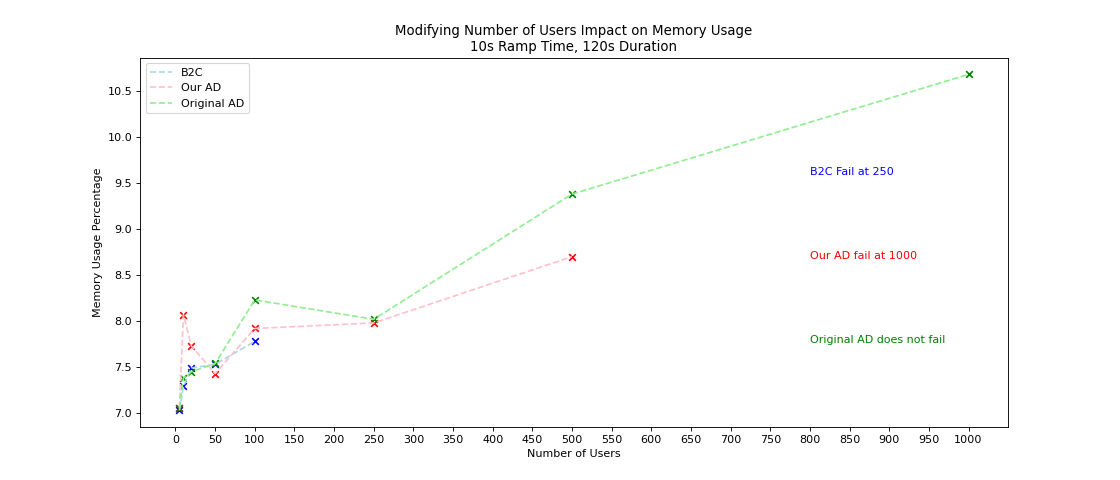
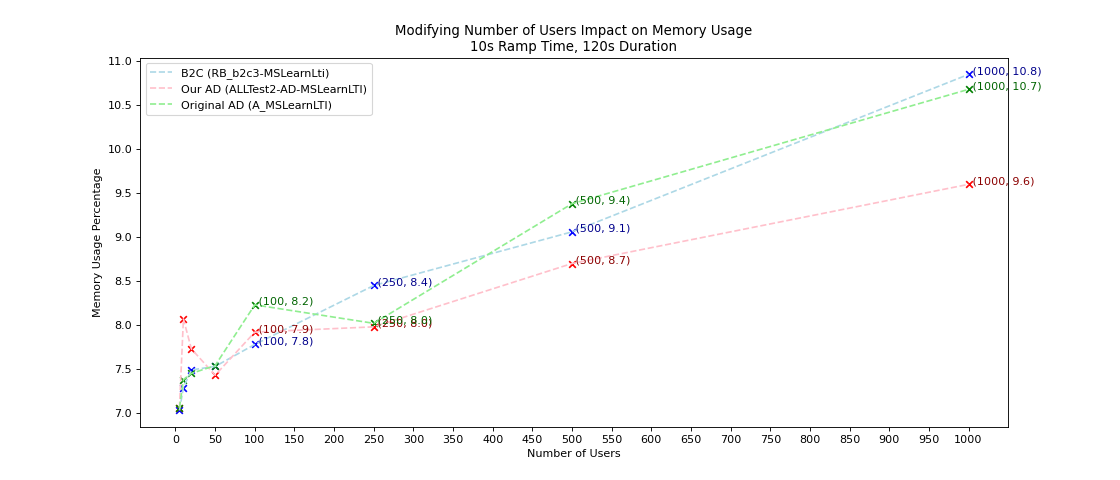
Updated diagrams with all success

diff --git a/__LoadDiagrams/diagrams.py b/__LoadDiagrams/diagrams.py
@@ -8,22 +8,25 @@ def drawDiagram(xAxis1, yAxis1, xAxis2, yAxis2, xAxis3, yAxis3, xLabel, yLabel, 
 
     plt.plot(xAxis1, yAxis1, linestyle='--', c='lightblue', label=yLegend1)
     plt.scatter(xAxis1, yAxis1, c='blue', marker="x")
-    plt.text(800, min(yAxis1+yAxis2+yAxis3)+(max(yAxis1+yAxis2+yAxis3)-min(yAxis1+yAxis2+yAxis3))*0.7, "B2C Fail at 250", color="blue")
+    # plt.text(800, min(yAxis1+yAxis2+yAxis3)+(max(yAxis1+yAxis2+yAxis3)-min(yAxis1+yAxis2+yAxis3))*0.7, "Our B2C did not fail", color="blue")
 
     plt.plot(xAxis2, yAxis2, linestyle='--', c='pink', label=yLegend2)
     plt.scatter(xAxis2, yAxis2, c='red', marker="x")
-    plt.text(800, min(yAxis1+yAxis2+yAxis3)+(max(yAxis1+yAxis2+yAxis3)-min(yAxis1+yAxis2+yAxis3))*0.45, "Our AD fail at 1000", color="red")
+    # plt.text(800, min(yAxis1+yAxis2+yAxis3)+(max(yAxis1+yAxis2+yAxis3)-min(yAxis1+yAxis2+yAxis3))*0.45, "Our AD does not fail", color="red")
 
     plt.plot(xAxis3, yAxis3, linestyle='--', c='lightgreen', label=yLegend3)
     plt.scatter(xAxis3, yAxis3, c='green', marker="x")
-    plt.text(800, min(yAxis1+yAxis2+yAxis3)+(max(yAxis1+yAxis2+yAxis3)-min(yAxis1+yAxis2+yAxis3))*0.2, "Original AD does not fail", color="green")
+    # plt.text(800, min(yAxis1+yAxis2+yAxis3)+(max(yAxis1+yAxis2+yAxis3)-min(yAxis1+yAxis2+yAxis3))*0.2, "Original AD does not fail", color="green")
     
-    # for xy in zip(xAxis1, yAxis1):
-    #     plt.annotate(' (%d, %.1f)' % xy, xy=xy)
-    # for xy in zip(xAxis2, yAxis2):
-    #     plt.annotate(' (%d, %.1f)' % xy, xy=xy)
-    # for xy in zip(xAxis3, yAxis3):
-    #     plt.annotate(' (%d, %.1f)' % xy, xy=xy)
+    for xy in zip(xAxis1, yAxis1):
+        if(xy[0]>=100):
+            plt.annotate(' (%d, %.1f)' % xy, xy=xy, color='darkblue')
+    for xy in zip(xAxis2, yAxis2):
+        if(xy[0]>=100):
+            plt.annotate(' (%d, %.1f)' % xy, xy=xy, color='darkred')
+    for xy in zip(xAxis3, yAxis3):
+        if(xy[0]>=100):
+            plt.annotate(' (%d, %.1f)' % xy, xy=xy, color='darkgreen')
 
 
 
@@ -58,11 +61,11 @@ yLabel = "HTTP request Response Time (90 perc) in seconds"
 
 
 # b2c = RB_b2c3-MSLearnLti
-xAxis1 = [5,10,20,50,100] # number of users
-yAxis1 = [0.87075, 2.86, 4.76, 6.22, 4.55] # HTTP Request Percentile 90th
+xAxis1 = [5,10,20,50,100,250, 500,1000] # number of users
+yAxis1 = [0.87075, 2.86, 4.76, 6.22, 4.55,10.69, 7.95,13.66] # HTTP Request Percentile 90th
 # our AD = ALLTest2-AD-MSLearnLTI
-xAxis2 = [5,10,20,50,100,250,500] # number of users
-yAxis2 = [0.582, 0.70933, 3.59, 3.67, 8.8,10.74, 11.35]
+xAxis2 = [5,10,20,50,100,250,500,1000] # number of users
+yAxis2 = [0.582, 0.70933, 3.59, 3.67, 8.8,10.74, 11.35, 18.78]
 # original AD = A_MSLearnLTI (?????)
 xAxis3 = [5, 10, 20, 50, 100, 250, 500,1000] # number of users
 yAxis3 = [0.6475, 0.80075, 1.03, 2.84, 4.95, 5.63, 7.39, 12.85]
@@ -78,14 +81,15 @@ yLabel = "Memory Usage Percentage"
 
 
 # b2c = RB_b2c3-MSLearnLti
-yAxis1 = [7.03, 7.29, 7.49, 7.53, 7.78] # HTTP Request Percentile 90th
+yAxis1 = [7.03, 7.29, 7.49, 7.53, 7.78, 8.45, 9.06,10.85] # HTTP Request Percentile 90th
 # our AD = ALLTest2-AD-MSLearnLTI
-yAxis2 = [7.06, 8.07, 7.73, 7.43, 7.92,7.98,8.7]
+yAxis2 = [7.06, 8.07, 7.73, 7.43, 7.92,7.98,8.7, 9.6]
 # original AD = A_MSLearnLTI (?????)
 yAxis3 = [7.06, 7.38, 7.45, 7.54, 8.23, 8.02, 9.38, 10.68]
 
 
-drawDiagram(xAxis1, yAxis1, xAxis2, yAxis2, xAxis3, yAxis3, xLabel, yLabel, Title, "UserImpactOnMemory", "B2C", "Our AD", "Original AD")
+# uncommented for now as we don't care about memory consumption
+# drawDiagram(xAxis1, yAxis1, xAxis2, yAxis2, xAxis3, yAxis3, xLabel, yLabel, Title, "UserImpactOnMemory", "B2C (RB_b2c3-MSLearnLti)", "Our AD (ALLTest2-AD-MSLearnLTI)", "Original AD (A_MSLearnLTI)")
 
 
 #endregion 
